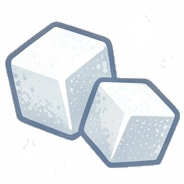
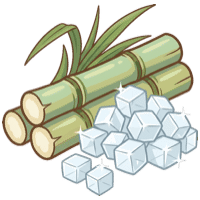
Tiny coin hangs off the flip event; pill rides the bar when it fits; green sugar cane

diff --git a/src/ui/stage.js b/src/ui/stage.js
@@ -42,7 +42,7 @@ const AR = { N: "↑", S: "↓", E: "→", W: "←" };
 //   YYYY.MM.DD.N  —  N is the Nth build published that day, bumped by hand exactly as the letter was.
 //
 // Staging appends its own suffix at publish time and never here — see scripts/deploy-staging.sh.
-const PP4_STAMP = "2026.09.07.3-staging@6d4b721d";
+const PP4_STAMP = "2026.09.07.3-staging@b74d1da3";
 
 /* HIDE THE WHOLE STAGE LAYER — T-12 (Wyatt, 2026-08-26, with a screenshot).
    "They are successfully brought back to port (the homepage) BUT there is a bug -- the homepage
@@ -1413,6 +1413,35 @@ function pillHTML(){
    so the two can never drift. matchMedia reads the true viewport, which is exactly what the media
    query reads — never vwPx(), which on the stage is body's own capped column. */
 const pillRidesRibbon = () => { try { return matchMedia("(min-width: 601px)").matches; } catch (e) { return false; } };
+/* ⭐ THE FORECAST PILL RIDES THE TOP BAR WHENEVER THE BAR CAN HOLD IT — Wyatt, 2026-09-13, on a Safari window
+   just under 600px wide: "the day forecast goes onto its own line. Ideally it should be on the same line. you
+   can see the breakpoint here -- what's the reasoning?"
+   THE REASONING WAS A NUMBER STANDING IN FOR A MEASUREMENT: `min-width: 601px`, the phone breakpoint, chosen
+   when a phone's bar genuinely had no room and nothing in it could shrink. Since fitRibbon() the bar CAN
+   shrink, so the honest question is the one this asks: with the pill in it, does the whole bar fit at a size
+   still easy to read? PILL_ROW_FLOOR is that size — 80% — and it is the one taste number here (his to move).
+   80, not 85, because he has already SEEN and approved 84%: a 640px window whose whole bar, pill included,
+   zoomed to 0.84 ("The top bar fits on one line, everything shrinking together" — LOOKS RIGHT). A floor above
+   that would have quietly undone it. His iPhone 13 mini's bar would need ~72%, so the phone keeps its own
+   pill row; a 590px window needs no shrink at all, so the pill joins the bar. A little hysteresis (3%) so a window resized
+   right at the edge does not flick the pill in and out. pillRidesRibbon() stays for what it still decides —
+   whether the captain's card is inset — which is a layout breakpoint, not a fit. */
+const PILL_ROW_FLOOR = 0.80;
+function pillFitsRibbon(rib, pill){
+  const cs = getComputedStyle(rib);
+  if (cs.display === "none") return false;
+  const cur = parseFloat(rib.style.getPropertyValue("--ribFit")) || 1;
+  const inRib = pill.parentNode === rib;
+  const pillW = Math.max(pill.getBoundingClientRect().width, pill.scrollWidth) / (inRib ? cur : 1);
+  if (!pillW) return inRib;                                  // not drawn yet (or hidden): leave it where it is
+  const kids = [...rib.children].filter(k => k !== pill && getComputedStyle(k).display !== "none");
+  const gap = parseFloat(cs.columnGap) || parseFloat(cs.gap) || 0;
+  const pad = (parseFloat(cs.paddingLeft) || 0) + (parseFloat(cs.paddingRight) || 0);
+  const natural = kids.reduce((w, k) => w + k.getBoundingClientRect().width / cur, 0) + pillW + gap * kids.length + pad;
+  const room = rib.clientWidth;
+  if (!room || natural <= pad) return inRib;
+  return (room - pad) / (natural - pad) >= (inRib ? PILL_ROW_FLOOR - 0.03 : PILL_ROW_FLOOR);
+}
 function pillTick(){
   const p = $("pp4Pill"); if (!p) return;
   /* THE PILL IS A REAL CHILD OF THE HEADER ROW WHEREVER THE ROW HAS SPACE FOR IT.
@@ -1426,7 +1455,7 @@ function pillTick(){
      the one tick a window actually crosses the boundary; the phone keeps its own fixed pill below
      the ribbon (D-18/D-31, the phone stays as it is). */
   const rib = $("pp4Ribbon");
-  const wantRibbon = !!rib && pillRidesRibbon();
+  const wantRibbon = !!rib && pillFitsRibbon(rib, p);
   if (wantRibbon && p.parentNode !== rib) rib.insertBefore(p, $("pp4FF") || rib.lastElementChild);
   else if (!wantRibbon && p.parentNode !== document.body) document.body.appendChild(p);
   const h = pillHTML();

diff --git a/src/ui/flow.js b/src/ui/flow.js
@@ -308,7 +308,7 @@ export function localAsk(msg,opts,colors,sub,extra){
   // ONE renderer, nothing else. The drawing all lives in renderAskPrompt above.
   return new Promise(res=>{renderAskPrompt({msg,opts,colors,sub,slider:extra&&extra.slider},res);});
 }
-export async function humanFlip(player,label,allowBack,sub){
+export async function humanFlip(player,label,allowBack,sub,why){
   applyActiveSeat(player.idx);
   const opts=[{label:"🌕 FLIP!",value:1,flip:true}];
   if(allowBack)opts.push({label:"← Back",back:true,value:"back"});
@@ -317,6 +317,13 @@ export async function humanFlip(player,label,allowBack,sub){
   // @copy prompt.flip.fallback
   const v=await ask(label||"Flip the dubloon!",opts,null,sub);
   if(v==="back")return "back";
+  /* THE RESULT IS DECIDED AT THE TAP, AND EVERY OTHER SCREEN HEARS OF IT AT ONCE. It used to be decided 795ms
+     later, after this device's spin, and a dock's result reached nobody until the whole dock — buy included —
+     was over. Deciding it here draws exactly the same random number (nothing else draws between the tap and
+     the old line), and when the flip is FOR something the engine records a coinflip event, which is published
+     and drained immediately: other screens start their tiny coin as this captain's big coin starts spinning. */
+  const h=appState.game.flip(player,why);
+  if(why){publishNow();liveRender();}
   netHandlers().onBroadcastFlip("spin");
   /* D-49 — WAIT OUT THE REST OF THE FLIP, not a fixed 340ms from wherever this line happens to
      resume. The coin has already been spinning since the TAP (localAsk paints it in the tap's own
@@ -327,7 +334,6 @@ export async function humanFlip(player,label,allowBack,sub){
      the coin is on screen for FLIP_SPIN_MS however slow the chain was. Through this file's own
      `sleep`, so fast-forward, pause and reload-replay behave exactly as before. */
   await sleep(flipSpinLeftMs());
-  const h=appState.game.flip(player);
   netHandlers().onBroadcastFlip(h?"H":"T");
   // same fixed-3000ms leftover as narrateLastEvent() had — flash() scales the hold to this
   // (short) message's own length instead of a flat timer unrelated to how long it takes to read
@@ -1869,7 +1875,7 @@ export async function humanDock(player,port){
   // already puts explanatory text (and, per the standing top-to-bottom rule, is revealed last).
   // @copy misc.paramprompt.dockflip
   const h=await humanFlip(player,`Docking at ${iconImg(ING_IMG[ing])} ${dockPlace(ing)} — dig for treasure!`,true,
-    `⚪ HEADS strikes buried treasure <span class="nobrk">(+${g.cfg.dockHeads}🌕)</span> · ⚫ TAILS is a turn workin' the docks <span class="nobrk">(+${g.cfg.dockTails}🌕)</span>. Either way, ye may then buy an ingredient.`);
+    `⚪ HEADS strikes buried treasure <span class="nobrk">(+${g.cfg.dockHeads}🌕)</span> · ⚫ TAILS is a turn workin' the docks <span class="nobrk">(+${g.cfg.dockTails}🌕)</span>. Either way, ye may then buy an ingredient.`,"dock");
   if(h==="back")return "back";
   player.coins+=h?g.cfg.dockHeads:g.cfg.dockTails;
   let got=h?"treasure":"dockhand";

diff --git a/src/engine/index.js b/src/engine/index.js
@@ -313,7 +313,13 @@ class Game{
   isHome(c){return c[0]===this.home[0]&&c[1]===this.home[1];}
   shuffle(a){for(let i=a.length-1;i>0;i--){const j=Math.floor(this.r()*(i+1));[a[i],a[j]]=[a[j],a[i]];}}
   sample(a,k){const c=[...a];this.shuffle(c);return c.slice(0,k);}
-  flip(p){p.flips++;const h=this.r()<.5;if(h)p.heads++;return h;}
+  /* ⭐ A COIN FLIP IS AN EVENT AT THE MOMENT IT IS DECIDED — Wyatt, 2026-09-13: "the tiny coin should flip
+     WHEN the host's coin is flipping... create a legible, durable design for your code that links the event
+     that is being displayed TO THE ACTUAL EVENT... change the engine if you need to." Every flip in the game
+     is decided by this one line. When the caller says what the flip is FOR, the engine records it right
+     here — {t:"coinflip", p, heads, why} — so a screen that shows the flip is showing THIS moment, not the
+     dock that is summarised a turn-step later (after the buy). Battle flips pass no `why` and are unchanged. */
+  flip(p,why){p.flips++;const h=this.r()<.5;if(h)p.heads++;if(why)this.ev({t:"coinflip",p:p.idx,heads:h?1:0,why});return h;}
   key(c){return c[0]+","+c[1];}
   isIsland(c){return this.islands[c]!==undefined;}
   /* ⭐ CHOOSING A RECIPE IS A GAME FACT, SO THE ENGINE OWNS IT — Wyatt, 2026-09-09:
@@ -1069,7 +1075,7 @@ class Game{
     const ing=port,k=port; // ports are identified by ingredient name
     if(this.cfg.singleDock&&this.dockOccupiedBy(ing,p))return false;
     p.firstFlip.add(k);p.dockedNow.add(k);p.justDocked=true;
-    const h=this.flip(p);
+    const h=this.flip(p,"dock");   // recorded as a coinflip event NOW — before the buy, before the dock summary
     p.coins+=h?this.cfg.dockHeads:this.cfg.dockTails;
     const price=this.cratePrice(ing);
     // a bot buys when it needs the crate and can afford today's price — or, if it trades for a

diff --git a/src/orchestrator.js b/src/orchestrator.js
@@ -1950,7 +1950,18 @@ export async function consumeEvent(e){
      a remote human, for anyone but the captain holding this screen). The captain who docked saw the big
      coin they tapped; every other screen sees this one over their hull. Awaited — and the narration
      about the dock waits on this consumer (eventDrawn) — so no line lands on a spinning coin. */
-  if(e.t==="dock"&&!appState.replaying&&!decisionIsLocal(e.p))await flipDockCoin(e.p,!!e.heads);
+  /* ⭐⭐ AND IT HANGS OFF THE FLIP ITSELF — 2026-09-13, his second note on it: "the coin appears to flip AFTER the
+     player has already ended their turn (by buying an ingredient)... it should be attached to the actual moment
+     of the coin being flipped." It was hung off the `dock` event, which the engine records only once the whole
+     dock is over. The engine now records a `coinflip` event the moment a flip is decided (Game.flip) — at a
+     human's tap, inside a bot's doDock — and this is what draws the coin. ARRIVAL FIRST: "bots begin docking
+     BEFORE they have arrived at their dock" — so the coin waits for the stage to be settled (the camera's
+     glide done and every ship drawn where the engine says it is) before it is thrown. */
+  if(e.t==="coinflip"&&e.why==="dock"&&!appState.replaying&&!decisionIsLocal(e.p)){
+    const settled=window.__pp4&&window.__pp4.settled;
+    if(settled)await settled();
+    await flipDockCoin(e.p,!!e.heads);
+  }
   /* ⭐ AND THE CAMERA FRAMES WHOEVER'S TURN IT IS, ON EVERY DEVICE — Wyatt, 2026-09-13 (note 6): "Guest
      camera director does not seem to be zooming in and out dynamically or correctly -- were these
      changes somehow made only to the host?" They were: the sail-window frame lived in pickCell(), which

diff --git a/src/ui/dockcoin.js b/src/ui/dockcoin.js
@@ -93,6 +93,7 @@ export async function flipDockCoin(seat, heads, sleepFn){
   const CQ = v => (v / 640 * 100) + "cqw";
   const el = document.createElement("div");
   el.className = "dcoin";
+  el.dataset.seat = String(seat);   // which captain this coin belongs to — read by the arrival probe, harmless to the look
   el.style.left = CQ(pt[0]);
   el.style.top  = CQ(pt[1] - cell / 2);          // the boat's TOP edge; the rise happens from there
   /* ⚠ ONE ELEMENT WITH A BACKGROUND, WHICH IS EXACTLY WHAT THE BIG COIN DOES — and the first
